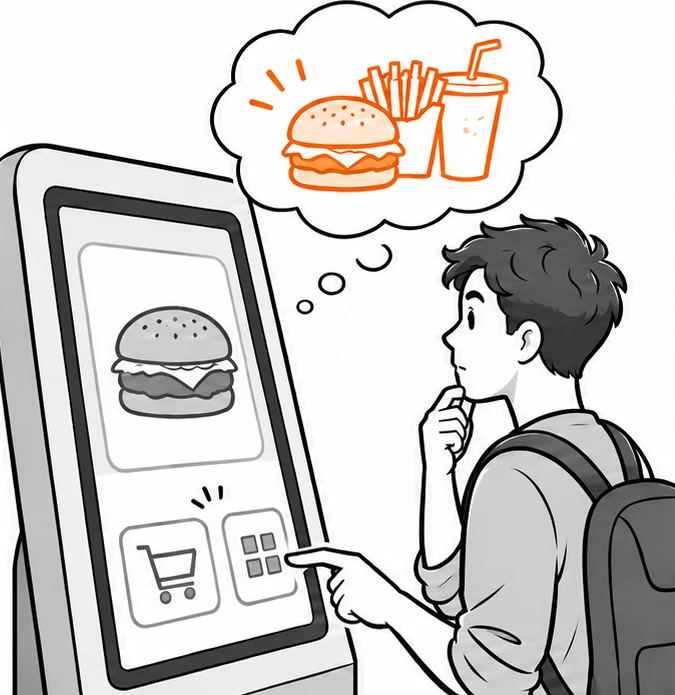
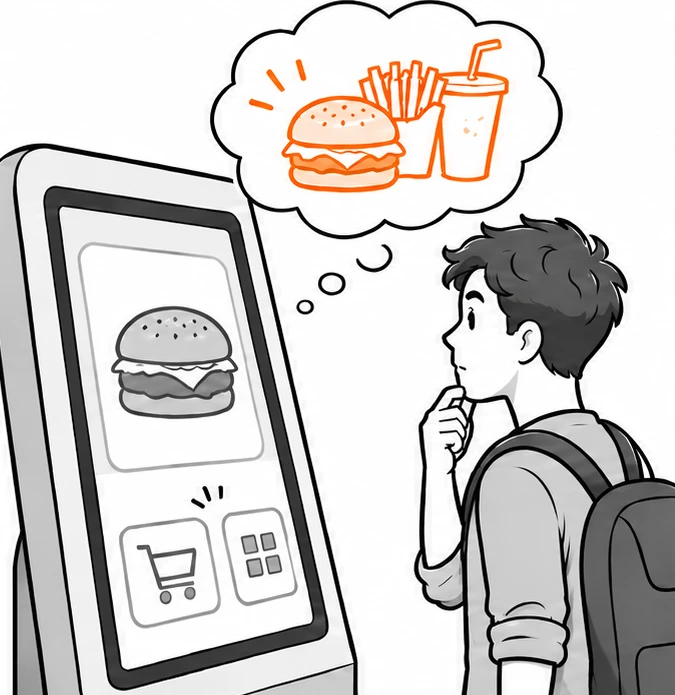
Replace KIOSK insight 3 illustration
Claude-Session: https://claude.ai/code/session_01NDe3p8GQ2HZ5WF8ct1RAfY

diff --git a/english.js b/english.js
@@ -73,7 +73,7 @@ const schedulingInsight=(num,label,title,copy,kind,caption,en=false)=>'<article 
   '<div id="rq-1"><b class="rq-num">01</b><strong>What functions and flows do different restaurant formats need?</strong><div class="rq-decision"><b>Method</b>Desk research + an exploratory scan of 40 stores across ~10 categories</div><div class="rq-value"><b>Where the answer is</b><a class="rq-link rq-link--wide" href="#kiosk-market">Market focus <span aria-hidden="true">↓</span></a></div></div>'+
   '<div id="rq-2"><b class="rq-num">02</b><strong>Which important capabilities are missing against competitors?</strong><div class="rq-decision"><b>Method</b>Competitive analysis of 7 competitors: features, interfaces and flows</div><div class="rq-value"><b>Where the answer is</b><a class="rq-link" href="#kdec-1">Decision 01 · Add-on entry <span aria-hidden="true">↓</span></a></div></div>'+
   '<div id="rq-3"><b class="rq-num">03</b><strong>Where do merchants report operating difficulties and unmet needs?</strong><div class="rq-decision"><b>Method</b>Interviews with 7 store managers, plus earlier interview data</div><div class="rq-value"><b>Where the answer is</b><a class="rq-link" href="#kdec-2">Decision 02 · Payment guidance <span aria-hidden="true">↓</span></a><a class="rq-link" href="#kdec-3">Decision 03 · Set switching <span aria-hidden="true">↓</span></a></div></div></div>'+
-  '<div class="kiosk-market-restored"><div class="kiosk-market-final" id="kiosk-market"><div class="kiosk-market-final-head"><span>MARKET FOCUS / TARGET FORMATS</span><h3>From a broad market to priority restaurant formats</h3><p>An exploratory scan of 40 stores across roughly ten formats helped identify restaurant types worth investigating further. The direction still needs validation with merchants.</p></div><div class="kiosk-market-final-main"><div class="market-conclusion"><div class="market-sizing market-sizing--circles"><div class="market-sizing-tam"><span>TAM</span><strong>Restaurants needing self-service ordering</strong><div class="market-sizing-sam"><span>SAM</span><strong>Formats current product could serve</strong><div class="market-sizing-focus"><span>TO VALIDATE</span><strong>Candidate formats</strong></div></div></div></div></div><div class="kiosk-market-screening"><h4>What makes a merchant a better fit?</h4><div class="kiosk-screening-item"><h5><span class="h-num">01</span>High transaction frequency</h5><p>Concentrated peak-hour orders and a need to keep ordering quick.</p></div><div class="kiosk-screening-item"><h5><span class="h-num">02</span>Standardized ordering flow</h5><p>Relatively consistent menus and steps that self-service can support.</p></div><div class="kiosk-screening-item"><h5><span class="h-num">03</span>Under NT$300</h5><p>An initial business screening threshold, not a fact about every target format.</p></div></div></div><div class="market-compare kiosk-market-final-stats"><div><span>40</span><strong>Stores</strong><small>Exploratory scan</small></div><div><span>10</span><strong>Formats</strong><small>Broad menu-based types</small></div><div><span>2</span><strong>Focus areas</strong><small>Japanese specialty / beverages</small></div></div><div class="evidence-details kiosk-market-final-chart is-open"><div class="market-chart"><div class="market-chart-head"><h6>Observed KIOSK adoption by format</h6><p>Higher bars show more observed brands, not greater product priority.</p></div><div class="market-bars"><div class="market-bar-row"><span>Chinese casual eateries</span><div class="market-bar-track"><div class="market-bar market-bar-lead" style="width:100%"></div></div><strong>7</strong></div><div class="market-bar-row"><span>Japanese specialty</span><div class="market-bar-track"><div class="market-bar market-bar-lead" style="width:100%"></div></div><strong>7</strong></div><div class="market-bar-row"><span>Fast food</span><div class="market-bar-track"><div class="market-bar market-bar-lead" style="width:86%"></div></div><strong>6</strong></div><div class="market-bar-row"><span>Beverage shops</span><div class="market-bar-track"><div class="market-bar market-bar-lead" style="width:86%"></div></div><strong>6</strong></div><div class="market-bar-row"><span>Western restaurants</span><div class="market-bar-track"><div class="market-bar " style="width:57%"></div></div><strong>4</strong></div><div class="market-bar-row"><span>Quick-service value meals</span><div class="market-bar-track"><div class="market-bar " style="width:43%"></div></div><strong>3</strong></div><div class="market-bar-row"><span>Noodle shops</span><div class="market-bar-track"><div class="market-bar " style="width:29%"></div></div><strong>2</strong></div><div class="market-bar-row"><span>Unmanned ramen</span><div class="market-bar-track"><div class="market-bar " style="width:29%"></div></div><strong>2</strong></div><div class="market-bar-row"><span>Cafés</span><div class="market-bar-track"><div class="market-bar " style="width:29%"></div></div><strong>2</strong></div><div class="market-bar-row"><span>Other</span><div class="market-bar-track"><div class="market-bar " style="width:29%"></div></div><strong>2</strong></div></div><p class="market-chart-note">The bar values count observed KIOSK-adopting brands by format, a different unit from the 40-store exploration; do not add them or generalize nationwide.</p></div></div></div></div><h3>Merchant interviews</h3><div class="research-audience"><div class="research-audience-summary"><div class="research-audience-count"><strong>07</strong><span>Managers across four brands</span></div><div class="interview-brand-logos" aria-label="Interviewed restaurant logos"><img src="./kiosk-logo-mini-mono.svg" alt="mini STEAK HOUSE"><img src="./kiosk-logo-ippudo-mono.svg" alt="Ippudo"><img src="./kiosk-logo-lugu-mono.svg" alt="Fighting Chicken"><img src="./kiosk-logo-kokkio-mono.svg" alt="KOKKIO"></div></div><p>Representing Noble Family Steakhouse, KOKKIO, Ippudo, and Fighting Chicken. I synthesized their reports of customer behavior, plus support tickets and historical data, into user needs.</p></div><h3>Key insights</h3><article class="insight-feature"><div class="insight-feature-copy"><span class="insight-feature-kicker"><em class="insight-number">01</em></span><h4>Customers look only at the screen and miss the payment hardware beside it</h4><p>Customers get stuck at payment more than at ordering: their attention stays on the screen in front of them, so cash, card and contactless modules elsewhere on the machine go unnoticed. A manager said: <strong>“I always have to tell them to put the money into the glowing blue spot.”</strong></p></div><figure><img class="kiosk-illus" loading="lazy" src="./assets/kiosk-insight-1.webp?v=2" alt="Line of sight from screen to payment hardware"></figure></article><article class="insight-feature"><div class="insight-feature-copy"><span class="insight-feature-kicker"><em class="insight-number">02</em></span><h4>Customers know set meals differently depending on the type of restaurant</h4><p>Fast-food customers already know what a set contains and accept the default extras; at other restaurants customers want to see the contents before they decide. A steakhouse asked: <strong>“Could required meal options be selected by default?”</strong></p></div><figure><img class="kiosk-illus" loading="lazy" src="./assets/kiosk-insight-2.webp?v=2" alt="Different menu structures by format"></figure></article><article class="insight-feature insight-feature--decision"><div class="insight-feature-copy"><span class="insight-feature-kicker"><em class="insight-number">03</em></span><h4>Customers decide as they go, not up front</h4><p>Customers often order a single item and only decide at the end whether to upgrade to a set; the choice forms during ordering rather than before it. A manager said: <strong>“Customers often decide to upgrade at the end, so I ask them first.”</strong></p></div><figure><img class="kiosk-illus" loading="lazy" src="./assets/kiosk-insight-3.webp?v=2" alt="Switching from item to set"></figure></article><div class="kiosk-comp" id="kiosk-comp"><h3>Competitive analysis</h3><p>Seven kiosk competitors compared on features, interface and flow. Percentages show how many offer each feature; items marked “also in interviews” came up in merchant interviews too.</p><table><thead><tr><th>Feature</th><th>Share of competitors</th><th>Notes</th></tr></thead><tbody><tr><th scope="row">Add-on flow <em class="kc-int">also in interviews</em></th><td class="kc-pct">71%</td><td>iChef reports about 50% of customers add items once enabled</td></tr><tr><th scope="row">Membership</th><td class="kc-pct">71%</td><td>Eats365 says it brings customers back</td></tr><tr><th scope="row">Recommended tags</th><td class="kc-pct">57%</td><td>incl. Hsing Yi Hsin (~20% of Taiwan POS)</td></tr><tr><th scope="row">Popular-item ranking</th><td class="kc-pct">—</td><td>Dianxiaoer and Uber Eats</td></tr><tr><th scope="row">Back to ordering from payment <em class="kc-int">also in interviews</em></th><td class="kc-pct">100%</td><td></td></tr><tr><th scope="row">Separate invoice/carrier page <em class="kc-int">also in interviews</em></th><td class="kc-pct">85%</td><td></td></tr><tr><th scope="row">Category sidebar <em class="kc-int">also in interviews</em></th><td class="kc-pct">53%</td><td>of 26 brands have more than 5 categories</td></tr><tr><th scope="row">Multiple languages <em class="kc-int">also in interviews</em></th><td class="kc-pct">85%</td><td>all include English; 66% offer Chinese, English and Japanese</td></tr><tr><th scope="row">Animated primary buttons <em class="kc-int">also in interviews</em></th><td class="kc-pct">—</td><td>Dianxiaoer, Hsing Yi Hsin</td></tr><tr><th scope="row">Payment location vs. machine <em class="kc-int">also in interviews</em></th><td class="kc-pct">—</td><td>Dianxiaoer, McDonald’s</td></tr></tbody></table></div>')+
+  '<div class="kiosk-market-restored"><div class="kiosk-market-final" id="kiosk-market"><div class="kiosk-market-final-head"><span>MARKET FOCUS / TARGET FORMATS</span><h3>From a broad market to priority restaurant formats</h3><p>An exploratory scan of 40 stores across roughly ten formats helped identify restaurant types worth investigating further. The direction still needs validation with merchants.</p></div><div class="kiosk-market-final-main"><div class="market-conclusion"><div class="market-sizing market-sizing--circles"><div class="market-sizing-tam"><span>TAM</span><strong>Restaurants needing self-service ordering</strong><div class="market-sizing-sam"><span>SAM</span><strong>Formats current product could serve</strong><div class="market-sizing-focus"><span>TO VALIDATE</span><strong>Candidate formats</strong></div></div></div></div></div><div class="kiosk-market-screening"><h4>What makes a merchant a better fit?</h4><div class="kiosk-screening-item"><h5><span class="h-num">01</span>High transaction frequency</h5><p>Concentrated peak-hour orders and a need to keep ordering quick.</p></div><div class="kiosk-screening-item"><h5><span class="h-num">02</span>Standardized ordering flow</h5><p>Relatively consistent menus and steps that self-service can support.</p></div><div class="kiosk-screening-item"><h5><span class="h-num">03</span>Under NT$300</h5><p>An initial business screening threshold, not a fact about every target format.</p></div></div></div><div class="market-compare kiosk-market-final-stats"><div><span>40</span><strong>Stores</strong><small>Exploratory scan</small></div><div><span>10</span><strong>Formats</strong><small>Broad menu-based types</small></div><div><span>2</span><strong>Focus areas</strong><small>Japanese specialty / beverages</small></div></div><div class="evidence-details kiosk-market-final-chart is-open"><div class="market-chart"><div class="market-chart-head"><h6>Observed KIOSK adoption by format</h6><p>Higher bars show more observed brands, not greater product priority.</p></div><div class="market-bars"><div class="market-bar-row"><span>Chinese casual eateries</span><div class="market-bar-track"><div class="market-bar market-bar-lead" style="width:100%"></div></div><strong>7</strong></div><div class="market-bar-row"><span>Japanese specialty</span><div class="market-bar-track"><div class="market-bar market-bar-lead" style="width:100%"></div></div><strong>7</strong></div><div class="market-bar-row"><span>Fast food</span><div class="market-bar-track"><div class="market-bar market-bar-lead" style="width:86%"></div></div><strong>6</strong></div><div class="market-bar-row"><span>Beverage shops</span><div class="market-bar-track"><div class="market-bar market-bar-lead" style="width:86%"></div></div><strong>6</strong></div><div class="market-bar-row"><span>Western restaurants</span><div class="market-bar-track"><div class="market-bar " style="width:57%"></div></div><strong>4</strong></div><div class="market-bar-row"><span>Quick-service value meals</span><div class="market-bar-track"><div class="market-bar " style="width:43%"></div></div><strong>3</strong></div><div class="market-bar-row"><span>Noodle shops</span><div class="market-bar-track"><div class="market-bar " style="width:29%"></div></div><strong>2</strong></div><div class="market-bar-row"><span>Unmanned ramen</span><div class="market-bar-track"><div class="market-bar " style="width:29%"></div></div><strong>2</strong></div><div class="market-bar-row"><span>Cafés</span><div class="market-bar-track"><div class="market-bar " style="width:29%"></div></div><strong>2</strong></div><div class="market-bar-row"><span>Other</span><div class="market-bar-track"><div class="market-bar " style="width:29%"></div></div><strong>2</strong></div></div><p class="market-chart-note">The bar values count observed KIOSK-adopting brands by format, a different unit from the 40-store exploration; do not add them or generalize nationwide.</p></div></div></div></div><h3>Merchant interviews</h3><div class="research-audience"><div class="research-audience-summary"><div class="research-audience-count"><strong>07</strong><span>Managers across four brands</span></div><div class="interview-brand-logos" aria-label="Interviewed restaurant logos"><img src="./kiosk-logo-mini-mono.svg" alt="mini STEAK HOUSE"><img src="./kiosk-logo-ippudo-mono.svg" alt="Ippudo"><img src="./kiosk-logo-lugu-mono.svg" alt="Fighting Chicken"><img src="./kiosk-logo-kokkio-mono.svg" alt="KOKKIO"></div></div><p>Representing Noble Family Steakhouse, KOKKIO, Ippudo, and Fighting Chicken. I synthesized their reports of customer behavior, plus support tickets and historical data, into user needs.</p></div><h3>Key insights</h3><article class="insight-feature"><div class="insight-feature-copy"><span class="insight-feature-kicker"><em class="insight-number">01</em></span><h4>Customers look only at the screen and miss the payment hardware beside it</h4><p>Customers get stuck at payment more than at ordering: their attention stays on the screen in front of them, so cash, card and contactless modules elsewhere on the machine go unnoticed. A manager said: <strong>“I always have to tell them to put the money into the glowing blue spot.”</strong></p></div><figure><img class="kiosk-illus" loading="lazy" src="./assets/kiosk-insight-1.webp?v=2" alt="Line of sight from screen to payment hardware"></figure></article><article class="insight-feature"><div class="insight-feature-copy"><span class="insight-feature-kicker"><em class="insight-number">02</em></span><h4>Customers know set meals differently depending on the type of restaurant</h4><p>Fast-food customers already know what a set contains and accept the default extras; at other restaurants customers want to see the contents before they decide. A steakhouse asked: <strong>“Could required meal options be selected by default?”</strong></p></div><figure><img class="kiosk-illus" loading="lazy" src="./assets/kiosk-insight-2.webp?v=2" alt="Different menu structures by format"></figure></article><article class="insight-feature insight-feature--decision"><div class="insight-feature-copy"><span class="insight-feature-kicker"><em class="insight-number">03</em></span><h4>Customers decide as they go, not up front</h4><p>Customers often order a single item and only decide at the end whether to upgrade to a set; the choice forms during ordering rather than before it. A manager said: <strong>“Customers often decide to upgrade at the end, so I ask them first.”</strong></p></div><figure><img class="kiosk-illus" loading="lazy" src="./assets/kiosk-insight-3.webp?v=3" alt="Switching from item to set"></figure></article><div class="kiosk-comp" id="kiosk-comp"><h3>Competitive analysis</h3><p>Seven kiosk competitors compared on features, interface and flow. Percentages show how many offer each feature; items marked “also in interviews” came up in merchant interviews too.</p><table><thead><tr><th>Feature</th><th>Share of competitors</th><th>Notes</th></tr></thead><tbody><tr><th scope="row">Add-on flow <em class="kc-int">also in interviews</em></th><td class="kc-pct">71%</td><td>iChef reports about 50% of customers add items once enabled</td></tr><tr><th scope="row">Membership</th><td class="kc-pct">71%</td><td>Eats365 says it brings customers back</td></tr><tr><th scope="row">Recommended tags</th><td class="kc-pct">57%</td><td>incl. Hsing Yi Hsin (~20% of Taiwan POS)</td></tr><tr><th scope="row">Popular-item ranking</th><td class="kc-pct">—</td><td>Dianxiaoer and Uber Eats</td></tr><tr><th scope="row">Back to ordering from payment <em class="kc-int">also in interviews</em></th><td class="kc-pct">100%</td><td></td></tr><tr><th scope="row">Separate invoice/carrier page <em class="kc-int">also in interviews</em></th><td class="kc-pct">85%</td><td></td></tr><tr><th scope="row">Category sidebar <em class="kc-int">also in interviews</em></th><td class="kc-pct">53%</td><td>of 26 brands have more than 5 categories</td></tr><tr><th scope="row">Multiple languages <em class="kc-int">also in interviews</em></th><td class="kc-pct">85%</td><td>all include English; 66% offer Chinese, English and Japanese</td></tr><tr><th scope="row">Animated primary buttons <em class="kc-int">also in interviews</em></th><td class="kc-pct">—</td><td>Dianxiaoer, Hsing Yi Hsin</td></tr><tr><th scope="row">Payment location vs. machine <em class="kc-int">also in interviews</em></th><td class="kc-pct">—</td><td>Dianxiaoer, McDonald’s</td></tr></tbody></table></div>')+
  section('solutions','03','KEY PRODUCT DECISIONS','Three product decisions shaped by research',
  
  "<div class=\"research-question-grid kiosk-decision-rows\"><div id=\"kdec-1\"><b class=\"rq-num\">01</b><strong>Make add-ons discoverable at the right moment</strong><div class=\"rq-decision\"><b>Finding</b>71% of competitors offer an add-on entry, which points to an opportunity to offer complementary items, but direct consumer demand was not established.<a class=\"rq-back\" href=\"#rq-2\">Answers question 02 ↑</a></div><div class=\"rq-value\"><b>Decision</b>Provide a clear add-on entry during selection; any effect on average order value still needs post-launch validation.<a class=\"dec-look\" href=\"#hl-addon\">See it in action <span aria-hidden=\"true\">↓</span></a></div></div><div id=\"kdec-2\"><b class=\"rq-num\">02</b><strong>Connect on-screen guidance to physical payment hardware</strong><div class=\"rq-decision\"><b>Finding</b>Merchant managers described customers focusing on the screen and struggling to locate cash, card, or contactless payment modules.<a class=\"rq-back\" href=\"#rq-3\">Answers question 03 ↑</a></div><div class=\"rq-value\"><b>Decision</b>Map payment instructions to the actual module locations to potentially reduce staff assistance. It sits in the main flow, interrupts the transaction, and pulls staff in, so it became the top priority.<a class=\"dec-look\" href=\"#hl-pay\">See it in action <span aria-hidden=\"true\">↓</span></a></div></div><div id=\"kdec-3\"><b class=\"rq-num\">03</b><strong>Switch between items and sets without starting over</strong><div class=\"rq-decision\"><b>Finding</b>Earlier interviews found that upgrading a single item to a set often required deleting it and repeating choices.<a class=\"rq-back\" href=\"#rq-3\">Answers question 03 ↑</a></div><div class=\"rq-value\"><b>Decision</b>Let customers switch within the existing selection, reducing repetitive work and the risk of abandoning an order.<a class=\"dec-look\" href=\"#hl-combo\">See it in action <span aria-hidden=\"true\">↓</span></a></div></div></div>")+

diff --git a/index.html b/index.html
@@ -35,10 +35,10 @@
     <div><strong>Yuan Chi Chang</strong><span>UX × Product Thinking × Building</span></div>
     <div class="footer-right"><span>Made with curiosity, 2026.</span><a href="#/">Back to top ↑</a></div>
   </footer>
-  <script src="./english.js?v=20261104pil3"></script>
+  <script src="./english.js?v=20261104kio3"></script>
   <script src="./hero-image-data.js?v=20261029-hq"></script>
   <script src="./hero-back-data.js?v=20261029toast2"></script>
   <script>window.HERO_BACK_IMAGE = './yuan-chi-hero-flip-back.png?v=20261029-coral-fix';</script>
-  <script src="./script.js?v=20261104pil3"></script>
+  <script src="./script.js?v=20261104kio3"></script>
 </body>
 </html>
